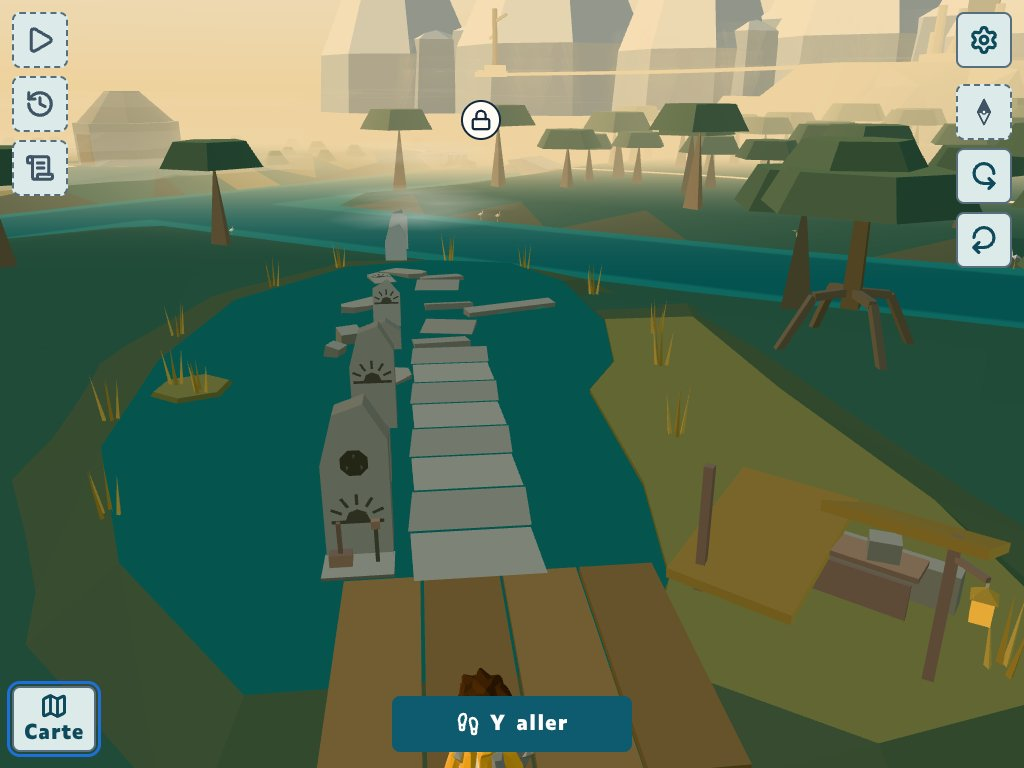
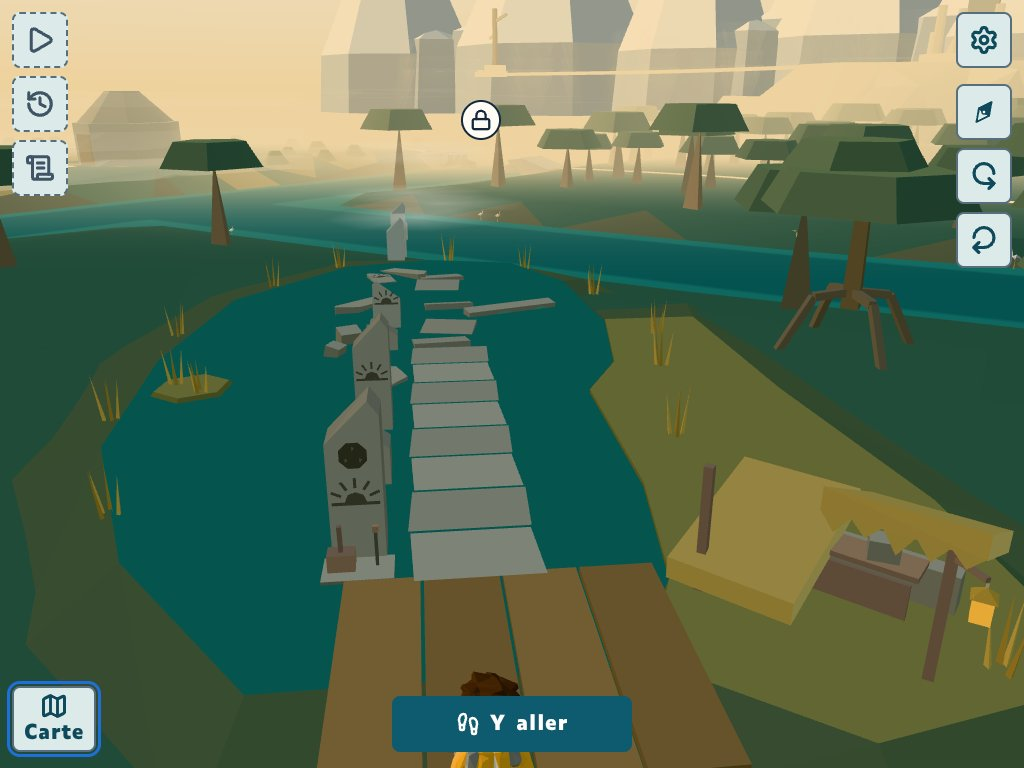
Captures : GD-22, lot 8 du 5e, retouche

diff --git a/gd22-lot8-5e/archipeo/comparaison.md b/gd22-lot8-5e/archipeo/comparaison.md
@@ -39,3 +39,6 @@ Vue du départ de sa sente, sur le chemin qui descend du pont des Roselières, a
 
 ## La nuit : pas de capture
 Le monde ouvert du 5e n'a pas encore de nuit (l'heure de la page ne change rien à sa lumière) : la ruine et la lanterne de l'abri seule, les Instants restaurés et leurs deux lanternes (l'abri, l'arche), la lanterne de la Hutte, se jugeront au lot du jour et de la nuit.
+
+## Retouche (commit b5754942)
+Refaites après la relecture du directeur artistique, mêmes noms de fichiers : 01-cap-de-y-aller-ruine (le cap d'arrivée suit la chaussée), 02-apres-le-corps-1-sur-2 (les outils sous le soleil gravé remonté), 03-apres-le-haut-1-sur-2 (la dalle dressée), 04-restaure-de-face, 05-restaure-de-dos, 05-restaure-trois-quarts (les pierres en blocs épais au sommet cassé d'un biais, l'auvent de roseaux), 07-hutte-* (deux touffes de roseaux le long de la sente). Les autres vues sont celles du commit 07a23ee9.
